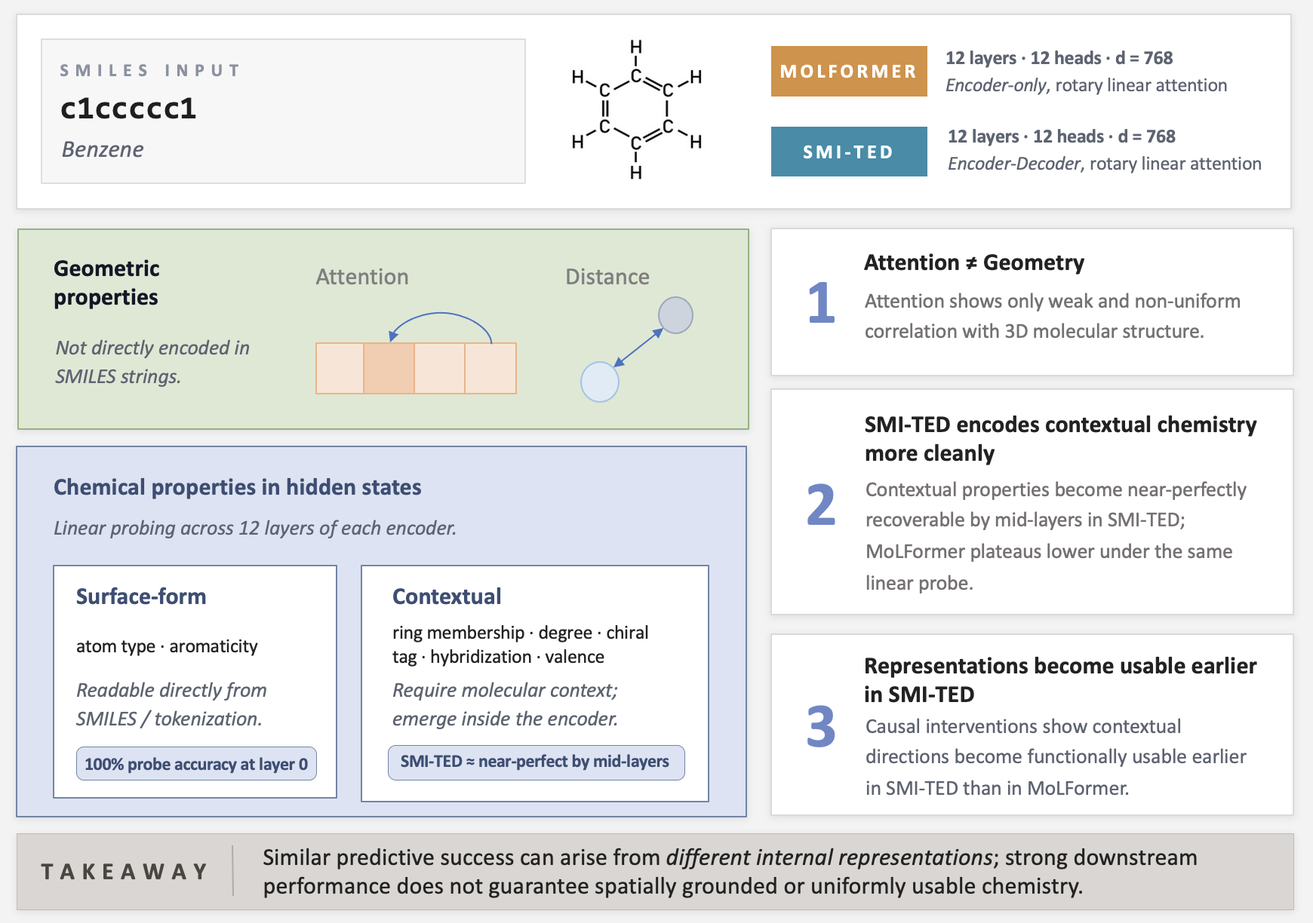
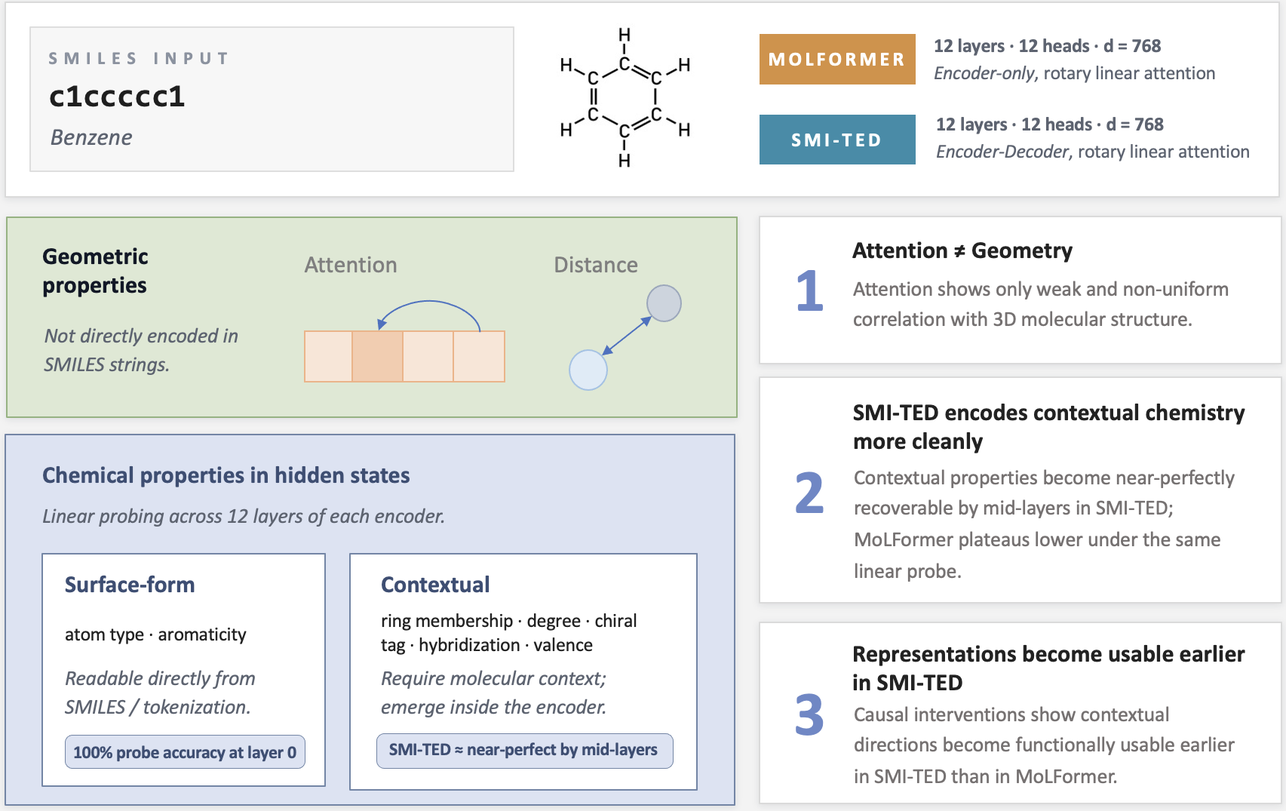
sync

diff --git a/section/intro.tex b/section/intro.tex
@@ -4,17 +4,20 @@
 %%%%%%%%%%%%%%%%%%%%%%%%%%%%%%%%%%%%%%%%%%%%%%%%%%%%%%%%%%%%
 \input{figure/figure1.tex}
 
-Foundation models pretrained on large scientific datasets are rapidly transforming prediction across the natural sciences. They have shown strong performance in proteins~\citep{lin2023esm2,jumper2021highly}, genomics~\citep{nguyen2024evo}, and weather forecasting~\citep{lam2023graphcast}. Specifically, chemistry foundation models pretrained on large-scale SMILES corpora, including ChemBERTa~\citep{chithrananda2020chemberta}, \molm~\citep{ross2022largescalechemicallanguagerepresentations}, \smi~\citep{soares2024smi}, and ChemFM~\citep{cai2026chemfm}, now serve as standard backbones for molecular property prediction, ADMET screening, and materials discovery~\citep{wu2018moleculenet,harod2025effichem,sharma2025foundation}. Despite operating directly on molecular text without explicit geometric supervision, these models achieve strong performance across a wide range of downstream chemistry tasks.
+Foundation models pretrained on large scientific datasets are rapidly transforming prediction across the natural sciences. For example, they have achieved promising results in domains including proteins~\citep{lin2023esm2,jumper2021highly}, genomics~\citep{nguyen2024evo}, and weather forecasting~\citep{lam2023graphcast}. Specifically, chemistry foundation models pretrained on large-scale SMILES corpora, including ChemBERTa~\citep{chithrananda2020chemberta}, \molm~\citep{ross2022largescalechemicallanguagerepresentations}, \smi~\citep{soares2024smi}, and ChemFM~\citep{cai2026chemfm}, now serve as standard backbones for molecular property prediction, ADMET screening, and materials discovery~\citep{wu2018moleculenet,harod2025effichem,sharma2025foundation}. Despite operating directly on molecular text without explicit geometric supervision, these models achieve strong performance across a wide range of downstream chemistry tasks.
 
-However, strong downstream performance does not imply that we understand what these models have learned internally. SMILES strings do not explicitly encode many chemically meaningful properties. For example, atom identity is directly visible from the token sequence, but higher-level structure, such as stereochemistry, valence, ring structure, and 3D geometry, must instead be inferred from context. It is therefore unclear whether strong downstream performance reflects structured chemical representations or weaker statistical patterns learned during pretraining. Because chemistry foundation models are typically deployed as black-box feature extractors, three concrete questions about their representations remain open: \emph{(i)} do attention heads track 3D molecular structure? \emph{(ii)} at what depth do contextual chemical properties such as ring membership or chirality emerge in the residual stream? and \emph{(iii)} are these representations actively used during computation, or merely co-encoded with the eventual prediction?
+However, strong downstream performance does not imply that we understand what these models have learned internally. SMILES strings do not explicitly encode many chemically meaningful properties. For example, atom identity and aromaticity are directly visible from the token sequence, but higher-level structure, such as stereochemistry, valence, ring structure, and 3D geometry, must instead be inferred from context. Thus, it is unclear whether strong downstream performance reflects meaningful chemical representations or weaker statistical patterns learned during pretraining. Because molecule models are typically deployed as black-box feature extractors, three concrete questions about their internal mechanism remain open: \emph{(i)} do attention heads track 3D molecular structure? \emph{(ii)} at what depth do contextual chemical properties such as ring membership or chirality emerge in the residual stream? and \emph{(iii)} are these representations actively used during computation, or merely co-encoded with the eventual prediction?
 
-To answer these questions, we apply the same set of analyses to two of the most widely used SMILES encoders, \molm and \smi. The models are architecturally similar as both of them use 12-layer transformer encoders with 768-dimensional hidden states and rotary linear attention. This makes them a useful comparison pair for isolating how different pretraining designs shape internal chemical representations. Across both models, we perform three complementary experiments: (1) attention–distance correlation across all heads to test whether attention reflects 3D molecular geometry; (2) linear probing of eight per-atom RDKit-derived chemical properties~\cite{rdkit} to distinguish surface-level token information from contextual chemical structure; and (3) causal interventions along probe directions to test whether decoded properties are actively used during computation beyond being linearly recoverable.
+To answer these questions, we apply the same set of analyses to two of the most widely used SMILES encoders, \molm and \smi. The models are architecturally similar as both of them use 12-layer transformer encoders with 768-dimensional hidden states and rotary linear attention. This makes them a useful comparison pair for isolating how different pretraining designs shape internal chemical representations. Across both models, we perform three complementary experiments: (1) attention–distance correlation across all heads to test whether attention reflects 3D molecular geometry; (2) linear probing of eight per-atom RDKit-derived chemical properties~\cite{rdkit} to distinguish surface-level token information from contextual chemical structure; and (3) causal interventions along probe directions to test whether decoded properties are actively used during computation beyond being linearly recoverable (Figure~\ref{fig:figure1}).
 
-We find that the two models, despite their architectural similarity, organize chemical information in substantially different ways. Attention in both encoders only weakly tracks 3D molecular geometry, with per-head Spearman correlations below $0.3$ and highly non-uniform across heads, contradicting prior claims that \molm attention encodes spatial structure. Surface-level properties readable from SMILES tokens (atom type, aromaticity) reach $100\%$ probe accuracy at the embedding layer in both models, while contextual properties that require aggregating across the molecular graph (ring membership, degree, chiral tag, hybridization, total valence) only become linearly recoverable inside the encoder, and \smi recovers them substantially more cleanly than \molm. Causal interventions along probe directions reveal a further gap. Even where \molm achieves high probe accuracy, those directions only become functionally usable near the top of the encoder, whereas in \smi the same properties drive intervention success to $\approx 1.0$ by mid-depth. Linear recoverability and causal use are therefore not the same thing, and the depth at which contextual chemistry becomes computationally usable differs substantially across pretraining designs.
+We find that the two models, despite their architectural similarity, organize chemical information in different ways. Attention in both encoders only weakly tracks 3D molecular geometry, with highly non-uniform Spearman correlations below $0.3$ across all layer-head pairs, which contrast with prior claims that \molm attention encodes spatial structure~\cite{ross2022largescalechemicallanguagerepresentations}. Surface-form properties directly encoded in SMILES tokens, such as atom type and aromaticity, reach nearly $100\%$ probe accuracy at the embedding layer in both models. In contrast, contextual properties that require aggregating information across the molecular graph emerge later in the encoder, with \smi encoding them substantially more cleanly than \molm. Causal interventions reveal a further distinction between representations that are merely decodable and those that are functionally used during computation. 
+% Even when \molm achieves high probe accuracy, the corresponding directions only become functionally usable near the top of the encoder. In \smi, the same properties drive intervention success to approximately $1.0$ by mid-depth. Thus, linear recoverability and causal use are not equivalent, and the depth at which contextual chemical information becomes computationally usable differs across pretraining designs.\footnote{Code Available: \url{https://anonymous.4open.science/r/smimolm-76E0/}}
 
 \noindent To summarize, our main contributions are as follows:
 \begin{itemize}
-    \item We pair layerwise linear probing with causal interventions along probe directions to study chemical foundation models, going beyond the correlational attention and embedding analyses used in prior work on SMILES encoders.
-    \item We apply this framework to \molm and \smi across eight per-atom RDKit-derived chemical properties on QM9, separating surface-level chemistry exposed by SMILES tokens from contextual chemistry that requires aggregation across the molecular graph.
-    \item We show that linear recoverability and causal use are distinct, and that two architecturally similar SMILES encoders differ substantially in how cleanly contextual chemistry is encoded and at what depth it becomes computationally usable, indicating that pretraining design shapes not only what information is present but when it is usable during computation.
+    \item We perform a mechanistic interpretability study of \molm and \smi, analyzing how they represent chemical structure and properties from SMILES strings. Revisiting prior claims that molecular attention captures spatial structure, we show that attention patterns correlate only weakly with true 3D interatomic distance despite strong downstream chemistry performance.
+    
+    \item Using layerwise probing and causal interventions across RDKit-derived atomic properties, we show that surface-form properties are directly recoverable from token embeddings, while contextual chemical properties are encoded much more cleanly and become causally usable earlier in \smi than in \molm.
+    
+    \item Our results suggest that linear decodability and causal usage capture different aspects of representation learning in molecular foundation models, motivating more careful interpretation of probing results in scientific domains.
 \end{itemize}

diff --git a/section/discussion.tex b/section/discussion.tex
@@ -1,10 +1,10 @@
 \section{Discussion}
 \label{sec:res-disc}
-Our results show that strong performance in molecular foundation models does not necessarily imply human-like chemical representations. Although chemically relevant information is present in both \molm and \smi, the models differ substantially in how cleanly and causally that information is organized. More broadly, our findings suggest that interpretability methods developed for language models may not transfer directly to scientific foundation models, motivating tools that better account for scientific data, architectures, and reasoning objectives.
+Our results show that strong downstream performance in molecular foundation models does not necessarily correspond to spatially grounded or uniformly organized chemical representations. Although both \molm and \smi encode chemically relevant information, they differ in how cleanly that information is represented and when it becomes causally usable during computation. More broadly, our findings suggest that interpretability methods developed for language models may not transfer directly to scientific foundation models, motivating tools that better account for scientific data, architectures, and reasoning objectives.
 
-\subsection{Chemical information can be present without being organized in a human-like way.}
+\subsection{Chemical information without human-like organization}
 
-Strong performance on chemistry tasks is often interpreted as evidence that a model has learned meaningful chemical structure, since many downstream predictions require reasoning about molecular properties and interactions. However, our results show that high predictive performance does not necessarily imply that chemical information is represented in a structured or human-like way. Although prior work suggested that attention in molecular language models may capture spatial relationships between atoms, we find that attention patterns exhibit only weak alignment with true 3D geometry. Instead, most chemically relevant information appears in the hidden representations rather than the attention mechanism itself. Moreover, the organization of this information differs substantially across models. We also show that some properties become detectable by probes before they are causally used by later layers, indicating that representation accessibility and computational usage emerge at different stages of the network. In our setting, this gap is concrete: \molm and \smi both achieve strong downstream performance on overlapping MoleculeNet and ADMET-style benchmarks~\citep{ross2022largescalechemicallanguagerepresentations,soares2024smi,wu2018moleculenet,harod2025effichem,sharma2025foundation}, yet their internal representations differ substantially in how cleanly contextual chemistry is linearly encoded and in the depth at which it becomes causally usable. Comparable predictive success can therefore be supported by quite different internal organizations, and downstream accuracy alone provides limited evidence about how chemical knowledge is structured inside these models.
+Strong performance on chemistry tasks is often interpreted as evidence that a model has learned meaningful chemical structure. However, our results show that high downstream accuracy does not necessarily imply structured or human-like chemical representations. Although prior work suggested that attention in molecular language models captures spatial relationships between atoms, we find that attention exhibits only weak alignment with true 3D geometry. Instead, chemically relevant information is primarily represented in the hidden states, and its organization differs substantially across models. We further show that some properties become linearly recoverable before they are causally used by later layers, indicating that representation accessibility and computational use emerge at different stages of the network. In particular, \molm and \smi achieve similarly strong downstream performance on overlapping MoleculeNet and ADMET-style benchmarks~\citep{ross2022largescalechemicallanguagerepresentations,soares2024smi,wu2018moleculenet,harod2025effichem,sharma2025foundation}. However, they differ in how contextual properties are encoded and how early those encodings become causally usable. These results suggest that similar predictive performance can arise from substantially different internal representations.
 
 These differences matter because downstream scientific applications often require more than accurate prediction alone. In practice, we may want molecular models to organize chemical knowledge in ways that support compositional reasoning, reliable transfer, and faithful interpretation. Tasks such as ADMET prediction, molecular binding, and reactivity frequently require combining multiple local and non-local chemical constraints across several computational steps. Representations that become accessible and causally usable earlier in the network can serve as intermediate features for later computation. This may be especially important in transfer settings where molecular encoders are used through frozen embeddings, shallow predictors, parameter-efficient adaptation, or intermediate-layer readouts rather than fully end-to-end retraining so that the downstream model can still capture the information.~\cite{honda2019smiles,rollins2024molprop,cai2026chemfm,harod2025effichem,pinto2025unlocking}. Under these constraints, downstream performance may depend not only on whether chemical information is present somewhere in the model, but also on how cleanly and causally that information is organized.
 

diff --git a/section/conclusion.tex b/section/conclusion.tex
@@ -1,11 +1,7 @@
 \section{Conclusion}
 \label{sec:conclusion}
 
-Taken together, the attention and probing results suggest that chemical information is not represented uniformly across mechanisms or layers in these models. Attention exhibits only weak and highly selective alignment with molecular geometry, indicating that spatial structure is not encoded through a small set of geometry-tracking heads. In contrast, probing and causal intervention reveal that chemically meaningful properties are strongly represented within the residual stream, but become computationally usable at substantially different depths across models. More broadly, our results move beyond asking whether chemical information is present, toward understanding how chemically relevant structure is internally organized and used during computation.
+Taken together, the attention and probing results suggest that chemical information is not represented uniformly across mechanisms or layers. Attention exhibits weak and highly selective alignment with molecular geometry, while probing and causal intervention show that chemically meaningful properties are strongly represented within the residual stream but become usable at substantially different depths across models. More broadly, our results move beyond asking whether chemical information is present toward understanding how it is internally organized and used during computation.
 
-\para{Future Directions.}
-One natural next step is to study the internal geometry of chemical representations more directly. While linear probing identifies which properties are recoverable, it does not characterize how different chemical features are arranged relative to one another within representation space, whether they occupy shared or independent subspaces, or how these structures evolve across layers. Future work could examine feature overlap, representation superposition, and layerwise organization using methods such as sparse autoencoders, subspace analysis, or representation similarity techniques.
-
-A second direction is to trace how chemical information flows through the network during computation. Our causal interventions show when a representation becomes functionally usable, but do not yet identify which downstream components consume that information or how multiple chemical features are composed into higher-level reasoning. Studying attention circuits, residual-stream interactions, and feature propagation across layers may help reveal how models combine local chemical descriptors into more global molecular representations.
-
-Finally, an important open question is how different pretraining choices shape the resulting internal representations. Although \molm and \smi achieve similar downstream performance, they differ substantially in when and how chemical information becomes usable. Extending this analysis to additional architectures, objectives, and training datasets may help identify which design choices lead to more structured, transferable, or computationally efficient chemical representations.
+\para{Future directions.}
+Several directions remain open for understanding chemical representations in molecular foundation models. While probing identifies which properties are recoverable, it does not explain how chemical features are organized across layers or whether they occupy shared subspaces, motivating future work on representation geometry, feature overlap, and superposition using methods such as sparse autoencoders or representation similarity analysis. Our interventions further show when a representation becomes causally usable, but not how later components consume or combine this information into more global molecular reasoning, suggesting future analysis of attention circuits and residual-stream interactions. More broadly, although \molm and \smi achieve similar downstream performance, they differ substantially in how and when chemical information becomes usable, raising the broader question of how pretraining objectives and architectural choices shape internal scientific representations.

diff --git a/main.tex b/main.tex
@@ -90,7 +90,7 @@
 \printAffiliationsAndNotice{}
 
 \begin{abstract}
-Large-scale molecular language models trained on SMILES strings, text-based representations of molecules, achieve strong performance on chemical prediction tasks, but it remains unclear how they internally represent molecular structure and properties. In this work, we analyze two widely used models, \molm~\cite{ross2022largescalechemicallanguagerepresentations} and \smi~\cite{soares2024smi}, from a mechanistic interpretability perspective. Prior analyses of chemical foundation models have focused on correlational analysis, including attention correlations, embedding structure, or input-output associations. We take a step toward a more mechanistic account by combining layerwise attention analysis, linear probing, and causal intervention. We find that attention shows only weak and selective correlation with the underlying geometric structure. Probing reveals that \smi encodes contextual chemical properties as cleaner linear directions than \molm. We moved beyond correlational analysis towards causal interventions, which show that these directions are functionally used, and earlier in \smi than in \molm. Despite good downstream performance, these results suggest that successful SMILES pretraining does not necessarily produce spatially grounded or uniformly usable chemical representations, highlighting how diverse internal representations can support similar predictive success.
+Molecular language models trained on SMILES strings, text-based representations of molecules, achieve strong performance on chemical prediction tasks, yet it remains unclear how they internally represent molecular structure and chemical properties. In this work, we analyze two widely used models, \molm~\cite{ross2022largescalechemicallanguagerepresentations} and \smi~\cite{soares2024smi}, from a mechanistic interpretability perspective. Prior analyses of chemical foundation models have largely focused on correlational methods, including attention correlations, embedding structure, and input-output associations. We take a step toward a more mechanistic understanding by combining layerwise attention analysis, linear probing, and causal intervention. We find that attention exhibits only weak and selective alignment with underlying molecular geometry. Probing further reveals that \smi encodes contextual chemical properties as cleaner linear directions than \molm. Moving beyond correlational analysis, our causal interventions show that these directions are functionally used during computation, and earlier in \smi than in \molm. Despite strong downstream performance, our results suggest that successful SMILES pretraining does not necessarily produce spatially grounded or uniformly usable chemical representations, highlighting how diverse internal representations can support similar predictive success.
 
 \end{abstract}
 
@@ -107,7 +107,7 @@ Large-scale molecular language models trained on SMILES strings, text-based repr
 %%%%%%%%%%%%%%%%%%%%%%%%%%%%%%%%%%%%%%%%%%%%%%%%%%%%%%%%%%%%
 % \section*{Impact Statement}
 %%%%%%%%%%%%%%%%%%%%%%%%%%%%%%%%%%%%%%%%%%%%%%%%%%%%%%%%%%%%
-
+\newpage
 \bibliography{main}
 \bibliographystyle{icml2026}
 

diff --git a/appendix/probe_appendix.tex b/appendix/probe_appendix.tex
@@ -42,7 +42,7 @@ where $\mathbf{W}_{c}$ is the layer-$\ell$ probe's row for class $c$ and $\bolds
 
 To rule out the possibility that the layer-$11$ dip in \smi's intervention curves (Section~\ref{sec:res-steer}) reflects a poorly chosen perturbation magnitude rather than a property of the encoder, we re-ran the layer-$11$ intervention on the five properties that show the dip (the four contextual properties plus formal charge) with a finer $\alpha$ grid in $[0, 1]$, in addition to the wide grid up to $\alpha = 300$ already used in the main sweep. Table~\ref{app:l11-table} reports the per-$\alpha$ flip-to-target rate at the layer-$12$ readout. At every $\alpha$ in the combined grid, the success rate at layer~$11$ saturates well below the L10 / L12 ceiling, so the dip is not a sweep artifact.
 
-\begin{table}[t]
+\begin{table}[h]
 \centering
 \small
 \begin{tabular}{lccccc}
@@ -67,6 +67,6 @@ best @ L10 & $1.00$ & $1.00$ & $1.00$ & $0.91$ & $0.99$ \\
 best @ L12 & $1.00$ & $1.00$ & $1.00$ & $0.59$ & $1.00$ \\
 \bottomrule
 \end{tabular}
-\caption{Intervention success rate at \smi layer~$11$ for the five properties that show the L11 dip, swept over a fine $\alpha$ grid in $[0,1]$ and a wide grid up to $\alpha = 300$. The $\alpha$ range covers below to well above the residual-stream scale, since the steering vector $\mathbf{v} = (\mathbf{W}_{c'}-\mathbf{W}_{c})/\boldsymbol{\sigma}$ has Euclidean norm $\|\mathbf{v}\| \approx 8.8$ and $\alpha \ge 30$ already enters the regime where the next block's LayerNorm washes out further magnitude increases. The success rate stays well below the L10 / L12 ceiling at every $\alpha$ tested, so the dip is not an artifact of the perturbation scale.}
+\caption{Intervention success rate at \smi layer~$11$ for the five properties that show the L11 dip.}
 \label{app:l11-table}
 \end{table}

diff --git a/section/results.tex b/section/results.tex
@@ -27,7 +27,7 @@ $0.35$ and $0.45$, while \molm medium-distance correlations peak at
 $0.29$.
 These results suggest that \smi preserves spatial structure more consistently than \molm.
 
-Furthermore, several heads in both models exhibit negative correlations, suggesting that some heads capture chemical features not reflected by Euclidean distance alone, which may indicate that the models associate distance in the way human chemists do.
+Furthermore, several heads in both models exhibit negative correlations, suggesting that some heads capture chemical features not reflected by Euclidean distance alone, which may indicate that the models do not associate distance in the way human chemists do.
 %This motivates the following linear probing experiments examining what if chemical properties are encoded in the hidden states.
 
 \para{Comparison with prior \molm findings.} Our findings contrast with prior claims in \molm that attention strongly aligns with interatomic proximity. While both analyses compare attention weights with inverse pairwise distances, the original work aggregates attention across heads before computing cosine similarity with the inverse-distance matrix, potentially obscuring substantial head-level heterogeneity. In addition, cosine similarity measures global directional alignment, whereas our per-head Spearman analysis directly measures monotonic association between attention strength and spatial proximity. Our results instead suggest that geometric alignment is weak, highly non-uniform across heads, and largely absent for long-range interactions~\cite{ross2022largescalechemicallanguagerepresentations}.

diff --git a/figure/figure1.tex b/figure/figure1.tex
@@ -1,6 +1,6 @@
 \begin{figure*}[t]
     \centering
-    \includegraphics[width=1.5\columnwidth]{figure/figure1.png}
-    \caption{Example figure caption.}
+    \includegraphics[width=0.9\linewidth]{figure/figure1.png}
+    \caption{Overview of our mechanistic analysis of chemical foundation models. Attention exhibits weak and non-uniform alignment with molecular geometry, while hidden states encode contextual chemical properties that become usable earlier and more cleanly in SMI-TED than in MolFormer. }
     \label{fig:figure1}
 \end{figure*}
